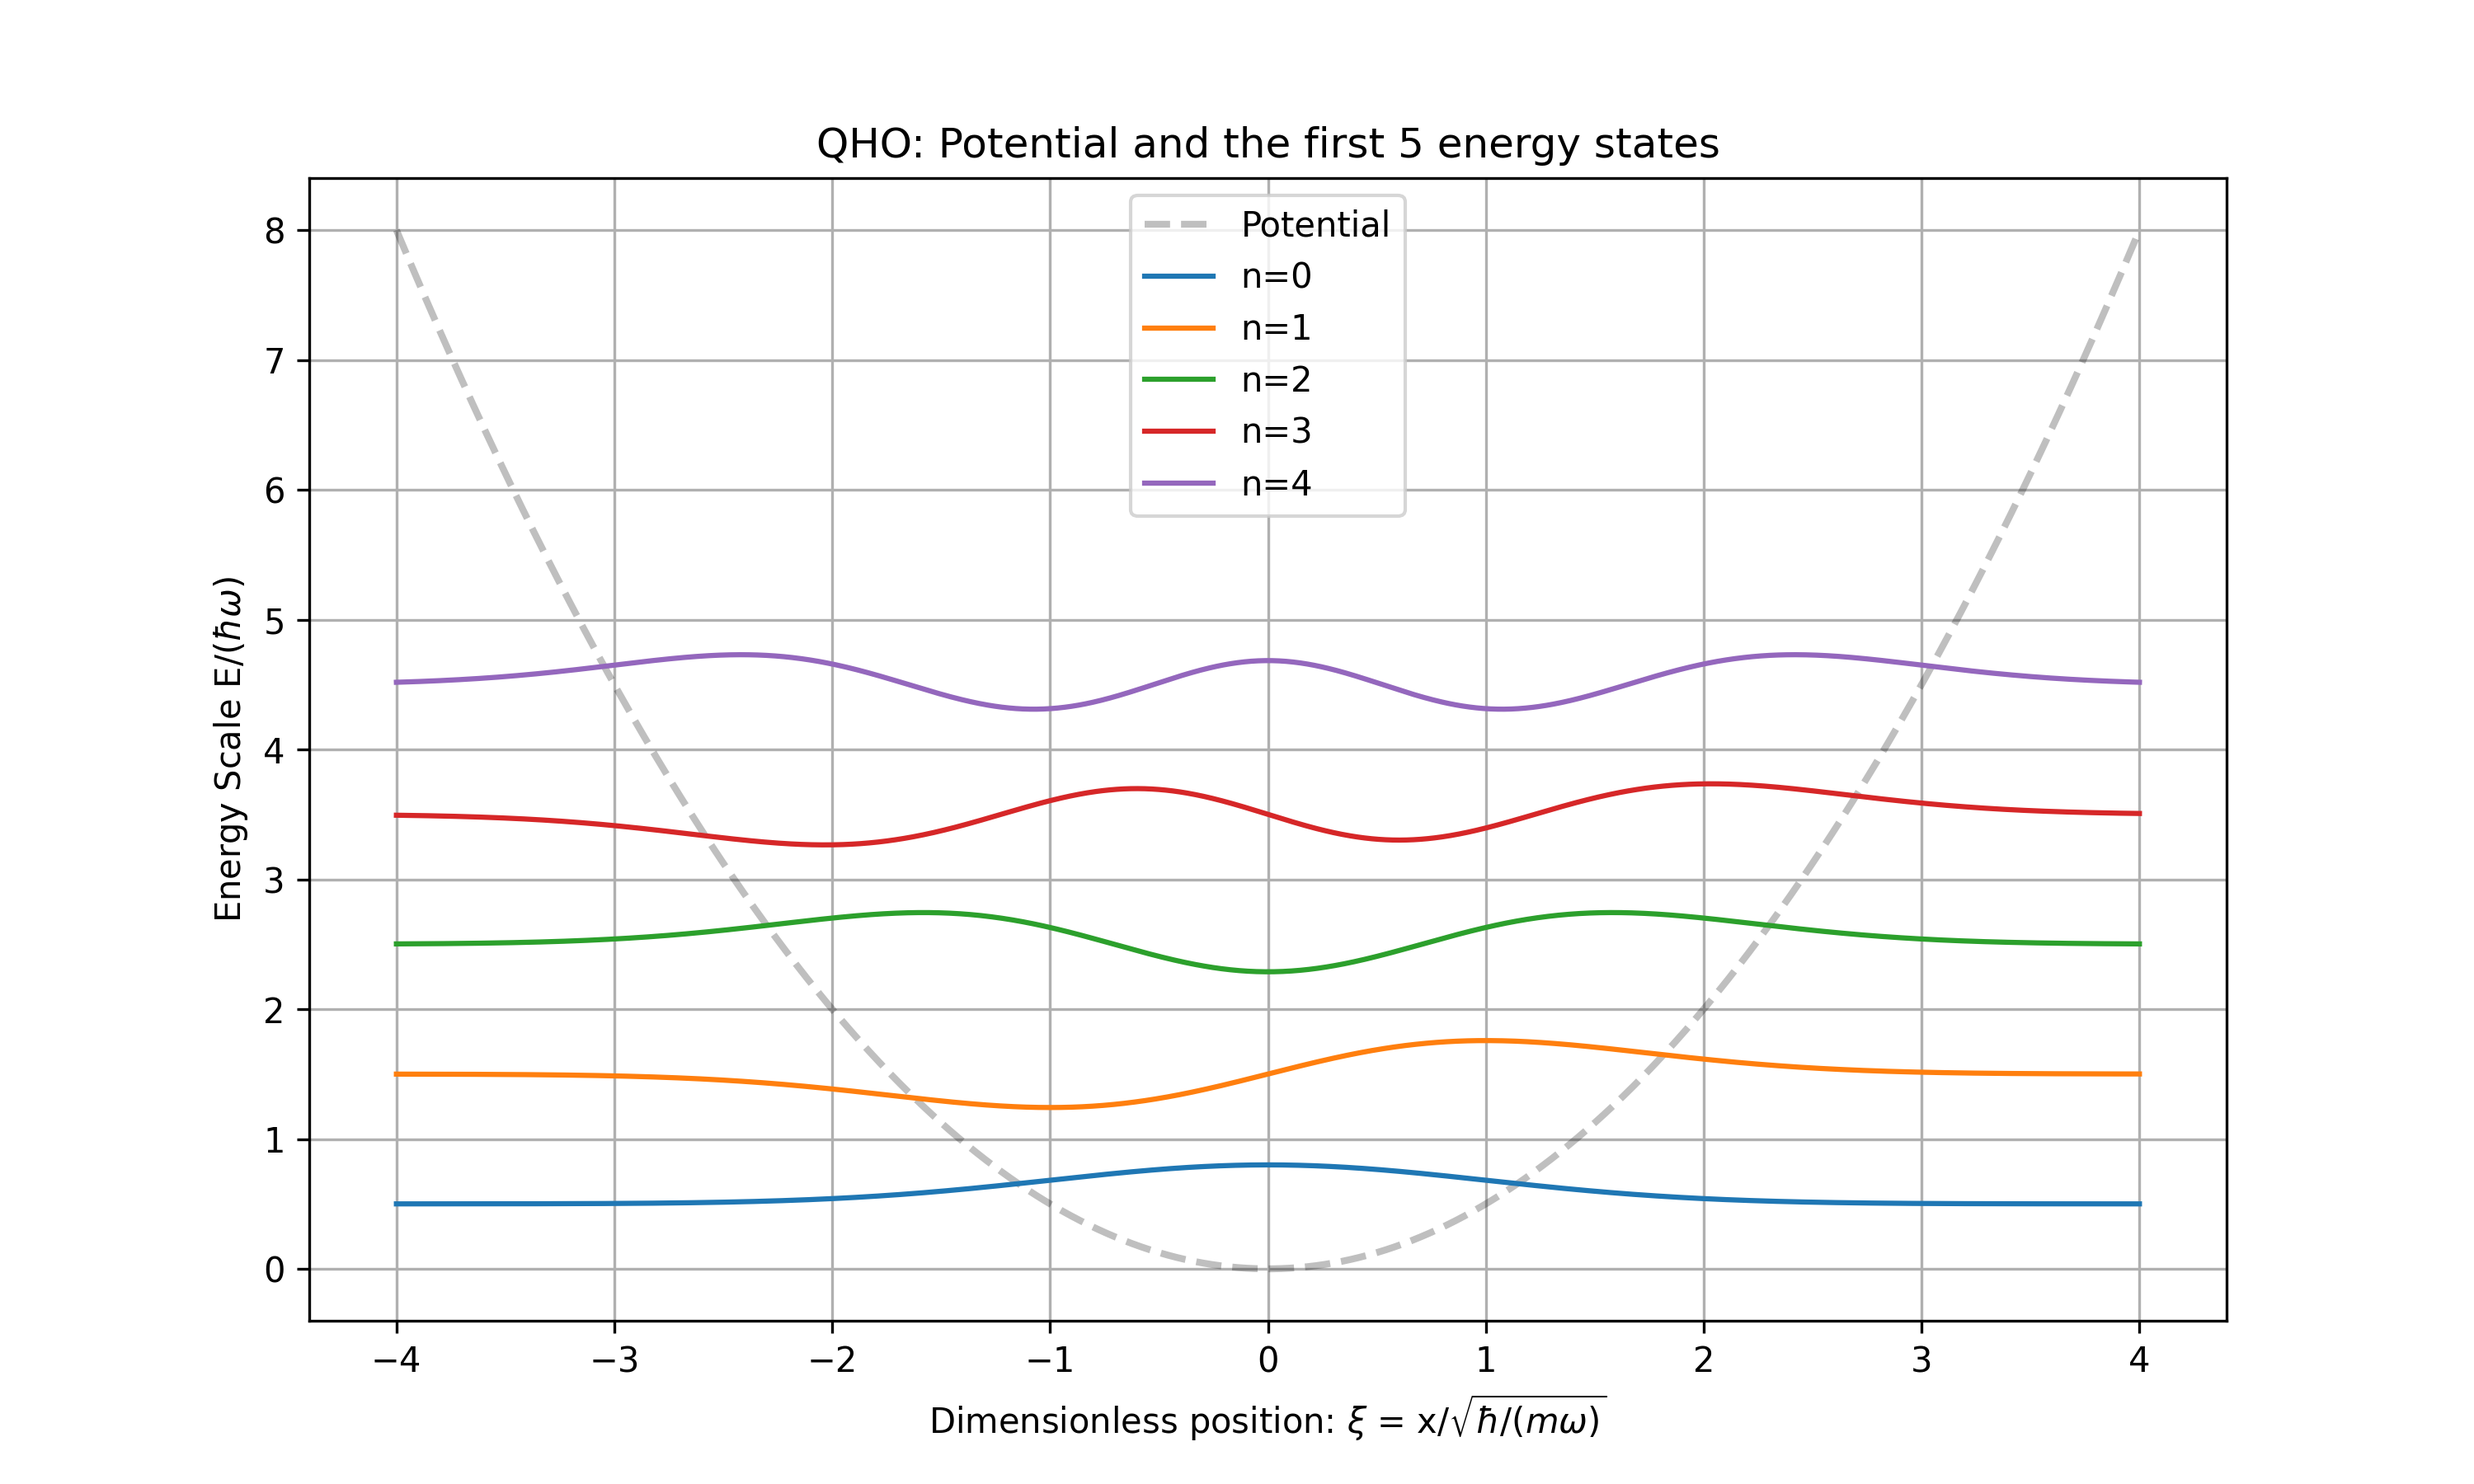
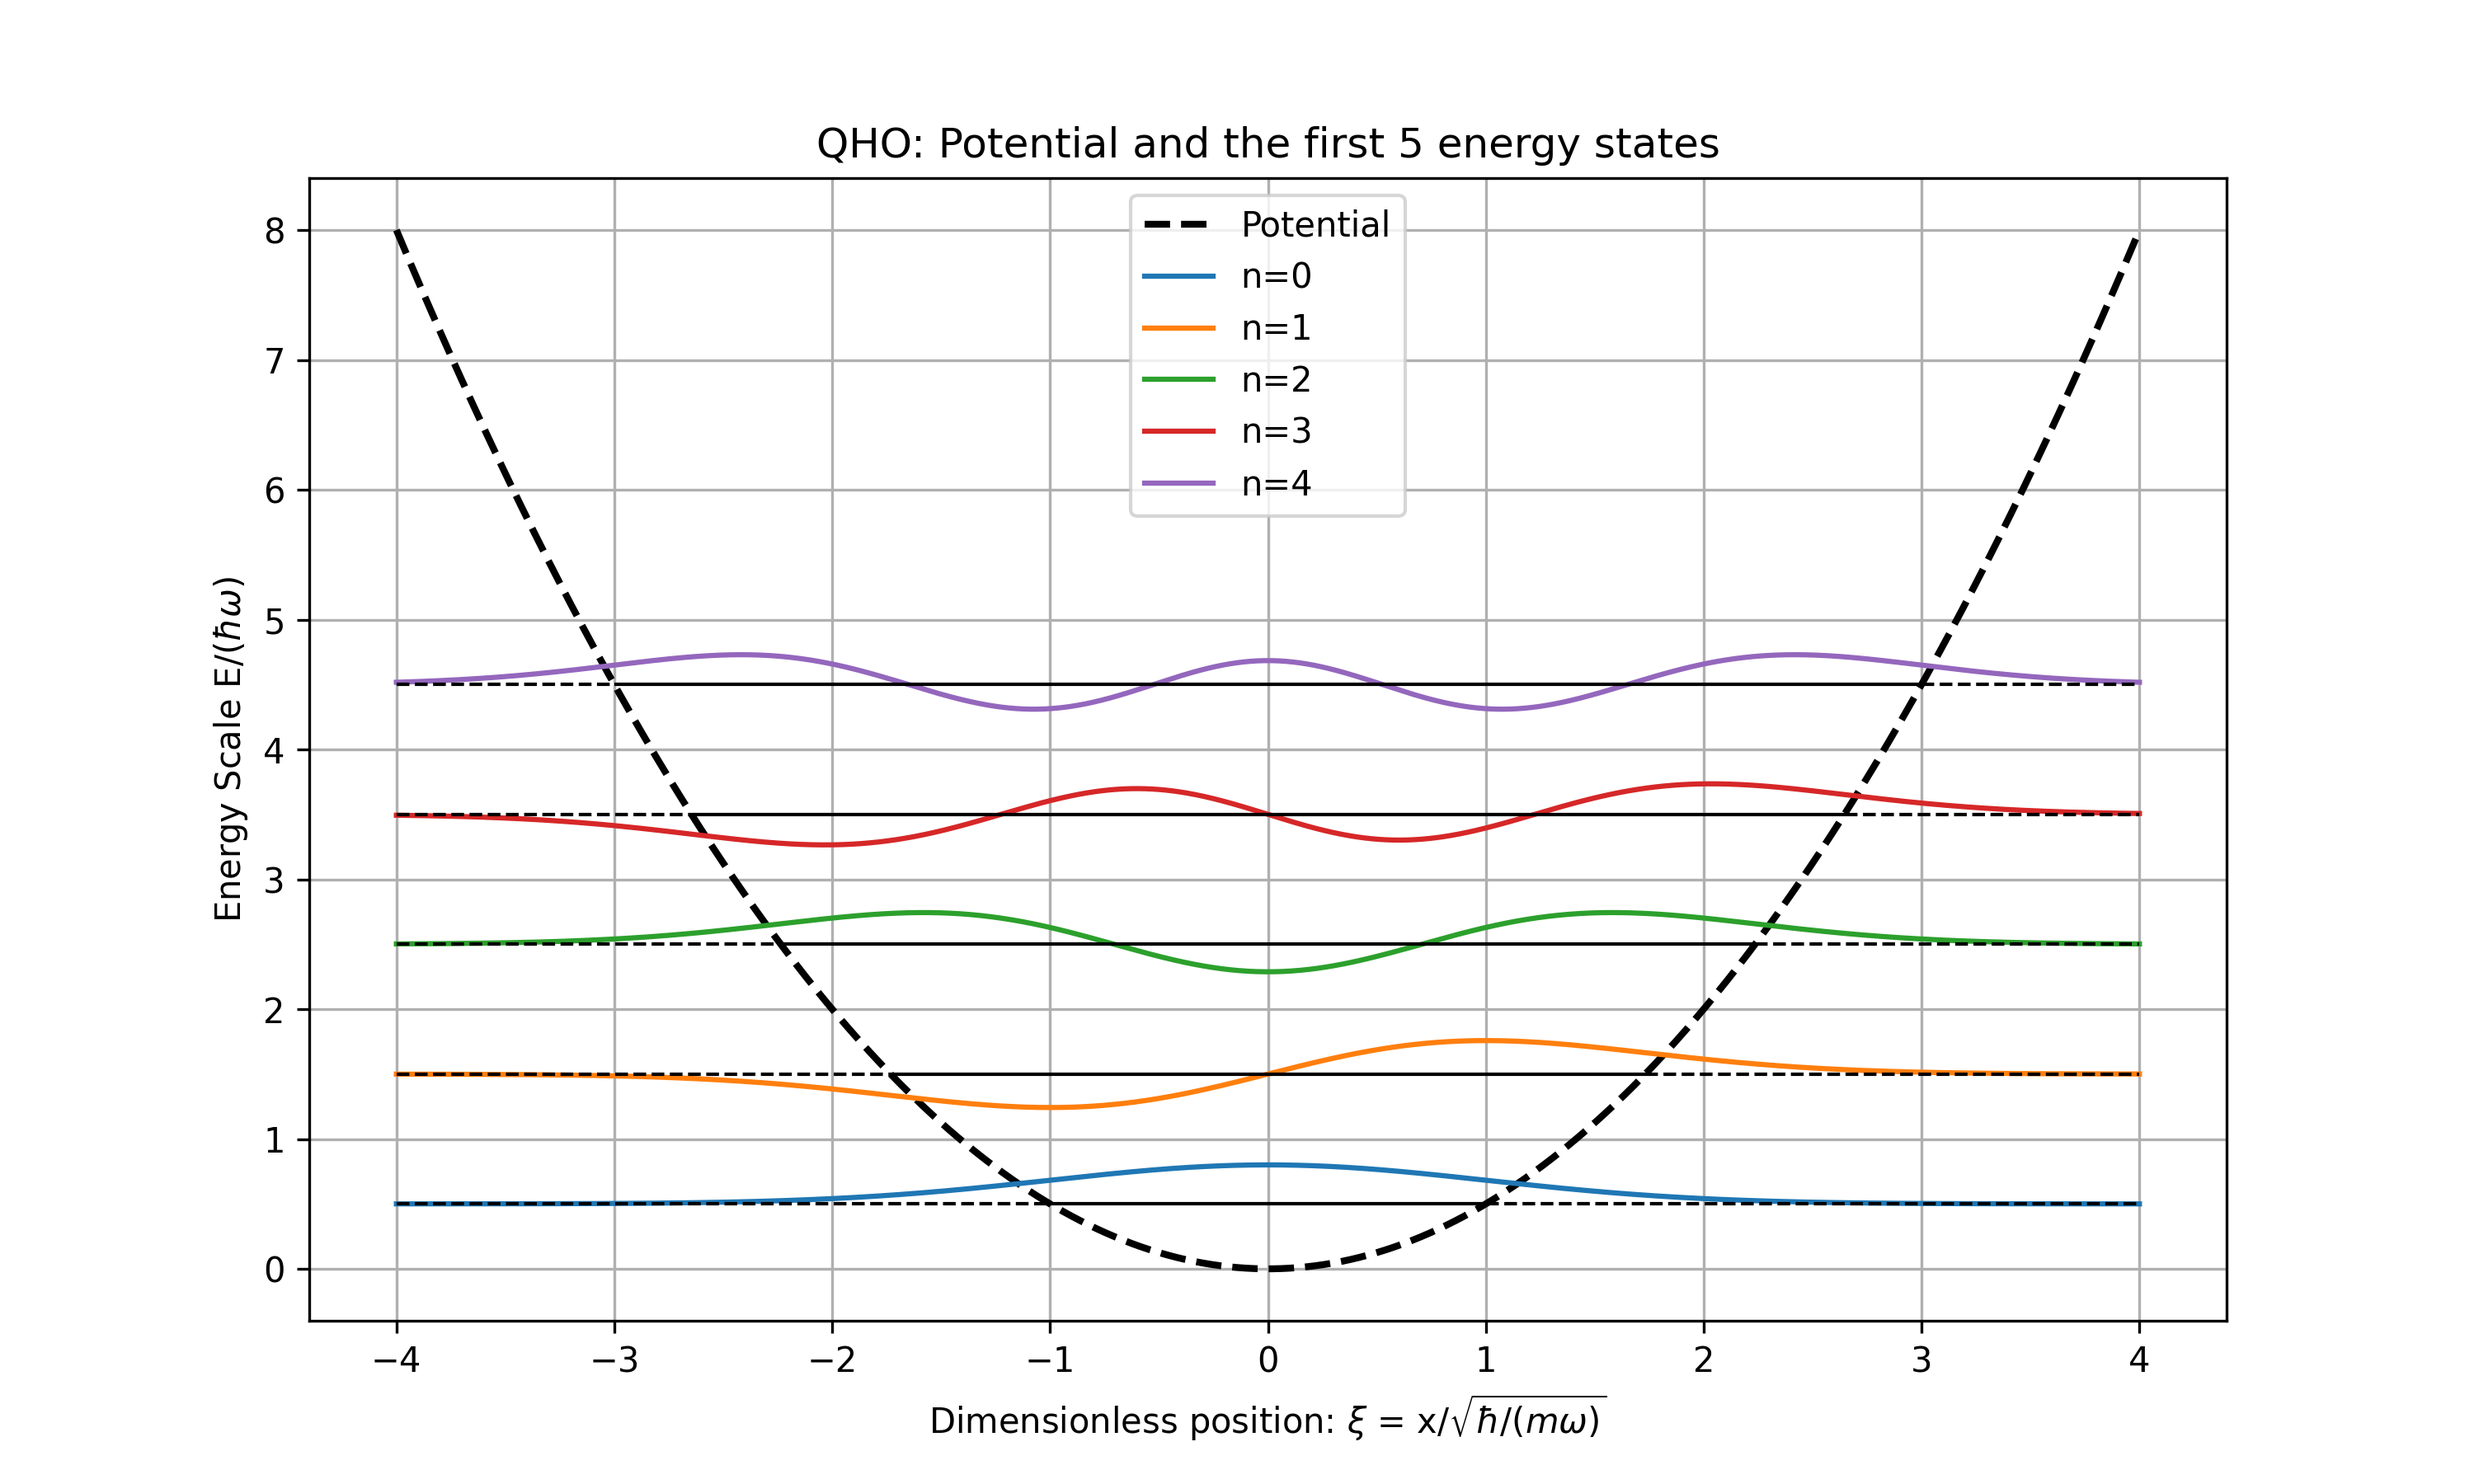
changed the plots, added subplot of potentials + position possibility

diff --git a/QHO.py b/QHO.py
@@ -16,7 +16,7 @@ os.makedirs(graph_dir, exist_ok=True)
 
 # ------------------------------------------------------
 
-E = 5 # number of energi states 
+E = 8 # number of energi states 
 
 x = np.linspace(-4, 4, 1000) # returns evenly spaced numbers over the given interval
 
@@ -32,42 +32,111 @@ def psi (n, x):
 
 V = 0.5*x**2 # defining the potential
 
-# setting plot size
-plt.figure(figsize=(10, 6))
+#--------------------------------------------------------------
+# --- first 5 energy states ---
+#--------------------------------------------------------------
+
 #plotting the potential.
-plt.plot(x, V, 'k--', linewidth=2, alpha=0.25, label="Potential")
+fig, (ax1, ax2) = plt.subplots(1, 2, figsize=(12, 8))
+
+ax1.plot(x, V, 'k--', linewidth=2, alpha=0.5, label="Potential")
 
 # Calculating the Eigenfunktions for the energi states.
 for n in range(E):
     En = n + 0.5
-    plt.plot(x, 0.4*psi(n,x)+ En, label=f"n={n}")
 
-# labeling and showing the plot.
-plt.xlabel(r"Dimensionless position: $\xi$ = x/$\sqrt{\hbar/(m\omega)}$")       # x-akse titel
-plt.ylabel(r"Energy Scale E/($\hbar$$\omega$)")                                 # y-akse titel
-plt.title("QHO: Potential and the first 5 energy states")                       # plot titel
-plt.legend()
-plt.grid()
+    ax1.plot(x, 0.4*psi(n,x) + En, label=f"n={n}")
 
-plt.savefig(os.path.join(graph_dir, "Figure_1_first_5_energy_QHO.png"), dpi=300)        # gemmer grafen i foldern Graphs
+    xt = np.sqrt(2*En)
 
-plt.figure(figsize=(10, 6))
+    ax1.hlines(En, -xt, xt,
+               colors='k',
+               linestyles='-')
 
-n = 60                              # for den n=60 energy stadie
+    ax1.hlines(En, x.min(), -xt,
+               colors='k',
+               linestyles='--')
 
-x = np.linspace(-12, 12, 5000)      # hvor functionen er defineret
+    ax1.hlines(En, xt, x.max(),
+               colors='k',
+               linestyles='--')
 
-plt.plot(x, np.abs(psi(n,x))**2, label=r"$|\psi_{60}|^2$")      # probability density |\psi_{60}(x)|^2
+# labeling
+ax1.set_title(r"Wavefunctions $\psi_n(x)$")
+ax1.set_xlabel(r'$\xi$ = x/$\sqrt{\hbar/(m\omega)}$')
+ax1.set_ylabel(r'$E/(\hbar\omega)$')
+ax1.grid()
+ax1.legend()
 
-plt.xlim(-15, 15)       # limit x-akse fra -15 til 15
+# possability distributions
+ax2.plot(x, V, 'k--', linewidth=2, alpha=0.5, label="Potential")
+
+for n in range(E):
+    En = n + 0.5
+
+    ax2.plot(
+        x,
+        0.4*np.abs(psi(n,x))**2 + En,
+        label=f"n={n}"
+    )
+
+    xt = np.sqrt(2*En)
+
+    ax2.hlines(En, -xt, xt,
+               colors='k',
+               linestyles='-')
+
+    ax2.hlines(En, x.min(), -xt,
+               colors='k',
+               linestyles='--')
+
+    ax2.hlines(En, xt, x.max(),
+               colors='k',
+               linestyles='--')
+
+
+# labeling
+ax2.set_title(r"Probability densities $|\psi_n(x)|^2$")
+ax2.set_xlabel(r'$\xi$ = x/$\sqrt{\hbar/(m\omega)}$')
+ax2.set_ylabel(r'$E/(\hbar\omega)$')
+ax2.grid()
+ax2.legend()
+
+
+plt.tight_layout()
+
+plt.savefig(
+    os.path.join(graph_dir,
+    "Figure_1_QHO_states_and_distributions.png"),
+    dpi=300
+)
+
+#--------------------------------------------------------------
+# --- probability density function ---
+#--------------------------------------------------------------
+
+plt.figure(figsize=(10,6))
+
+n = 120                              # for den n=120 energy stadie
+
+x = np.linspace(-17, 17, 5000)      # hvor functionen er defineret
+
+plt.plot(x, np.abs(psi(n,x))**2, label=fr"$|\psi_{{{n}}}(x)|^2$")      # probability density |\psi_{60}(x)|^2
+
+plt.xlim(-16, 16)       # limit x-akse fra -15 til 15
 plt.ylim(0, 0.2)        # limit y-akse fra 0 til 0.2
 
-plt.xlabel(r"Dimensionless position: $\xi$")                # x-akse titel
-plt.ylabel(r"$|\psi(\xi)|^2$")                              # y-akse titel
-plt.title(r"Probability density $|\psi_{60}(\xi)|^2$")      # plot titel  
-plt.legend()
+plt.xlabel(r"Dimensionless position: $\xi$ = x/$\sqrt{\hbar/(m\omega)}$")                # x-akse titel
+plt.ylabel(fr"$|\psi_{{{n}}}(x)|^2$")                              # y-akse titel
+plt.title(fr"Probability density $|\psi_{{{n}}}(x)|^2$")      # plot titel 
 plt.grid()
+plt.legend()
 
-plt.savefig(os.path.join(graph_dir, "Figure_1_probability_density_60.png"), dpi=300)        # gemmer grafen i foldern Graphs
+plt.savefig(
+    os.path.join(graph_dir,
+    "Figure_1_probability_density_60.png"),
+     dpi=300
+)  
+# gemmer grafen i foldern Graphs
 
 plt.show()
